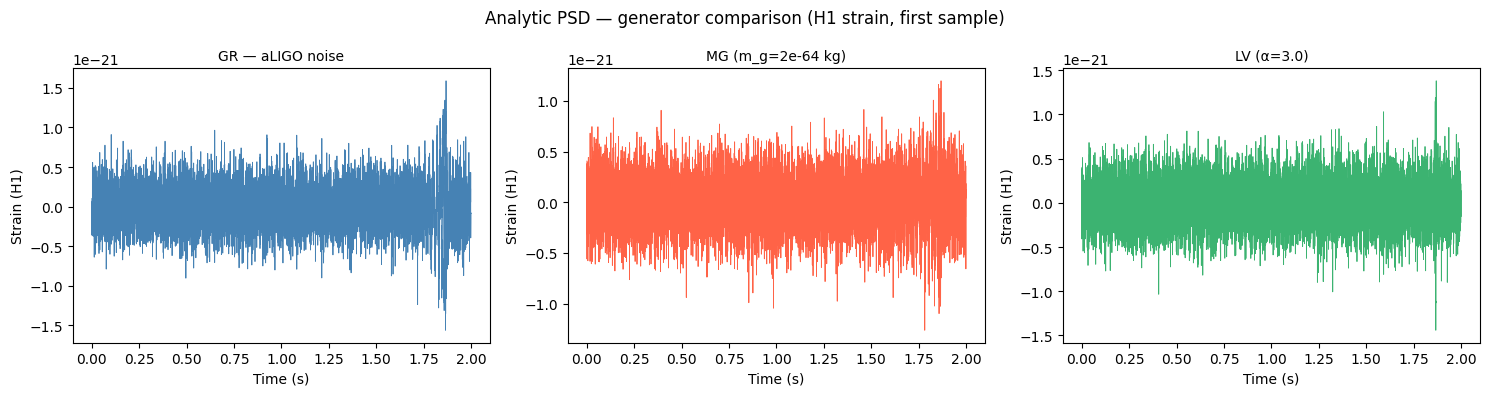
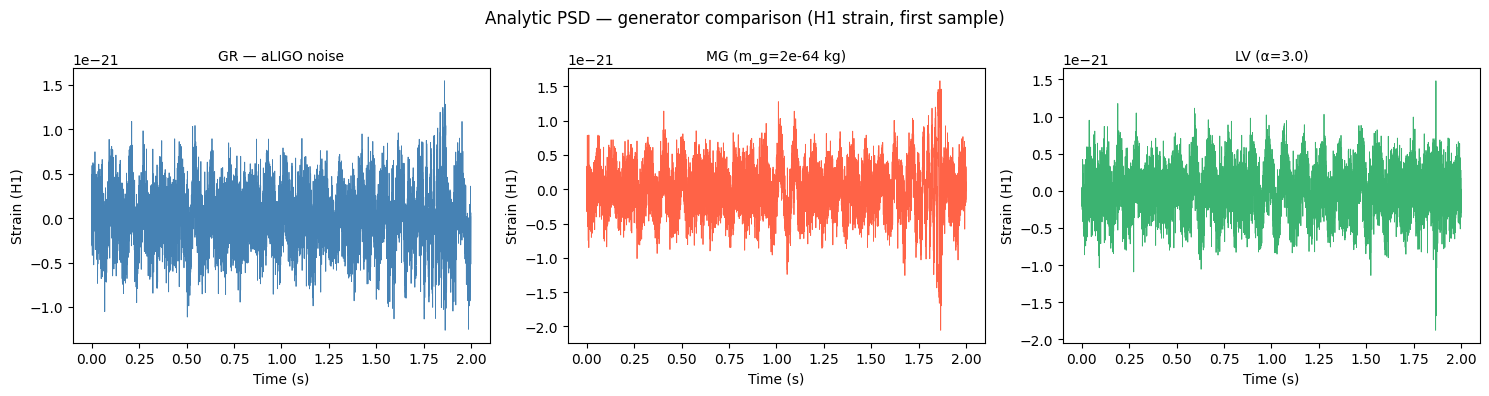
e

diff --git a/HPC/Pipeline/Data Generation/plot_gr_o4_data.py b/HPC/Pipeline/Data Generation/plot_gr_o4_data.py
@@ -1,0 +1,140 @@
+"""
+plot_gr_o4_data.py — Generate GR waveforms with O4 real noise and plot a selection of samples.
+
+Usage:
+    python plot_gr_o4_data.py [--n-samples 10] [--n-plot 4] [--output gr_o4_samples.png]
+"""
+
+import argparse
+import numpy as np
+import matplotlib
+matplotlib.use('Agg')
+import matplotlib.pyplot as plt
+
+from gw_datagen import (
+    pycbc_data_generator,
+    _DEFAULT_CACHE,
+)
+
+# ── Config ────────────────────────────────────────────────────────────────────
+N_SAMPLES     = 10
+N_PLOT        = 4
+TIME_RES      = 1 / 4096
+SIGNAL_LENGTH = 2.0
+F_LOWER       = 10.0
+F_FINAL       = 2048.0
+APPROXIMANT   = 'IMRPhenomD'
+DETECTORS     = ['H1', 'L1']
+
+H1_COLOR = '#1f77b4'
+L1_COLOR = '#d62728'
+
+
+def parse_args():
+    p = argparse.ArgumentParser(formatter_class=argparse.ArgumentDefaultsHelpFormatter)
+    p.add_argument('--n-samples', type=int, default=N_SAMPLES,
+                   help='Total waveforms to generate.')
+    p.add_argument('--n-plot', type=int, default=N_PLOT,
+                   help='Number of examples to plot.')
+    p.add_argument('--cache-dir', default=_DEFAULT_CACHE,
+                   help='O4 PSD cache directory.')
+    p.add_argument('--output', default='gr_o4_samples.png',
+                   help='Output image path.')
+    return p.parse_args()
+
+
+def main():
+    args = parse_args()
+
+    config = {
+        'mass1':        lambda size: np.random.uniform(10, 60, size=size),
+        'mass2':        lambda size: np.random.uniform(10, 60, size=size),
+        'spin1z':       lambda size: np.random.uniform(-0.99, 0.99, size=size),
+        'spin2z':       lambda size: np.random.uniform(-0.99, 0.99, size=size),
+        'distance':     lambda size: np.random.uniform(200, 800, size=size),
+        'inclination':  lambda size: np.random.uniform(0, np.pi, size=size),
+        'coa_phase':    lambda size: np.random.uniform(0, 2 * np.pi, size=size),
+        'ra':           lambda size: np.random.uniform(0, 2 * np.pi, size=size),
+        'dec':          lambda size: np.arcsin(np.random.uniform(-1, 1, size=size)),
+        'polarization': lambda size: np.random.uniform(0, np.pi, size=size),
+    }
+
+    print(f'Generating {args.n_samples} GR waveforms with O4 noise...')
+    result = pycbc_data_generator(
+        config=config,
+        num_samples=args.n_samples,
+        time_resolution=TIME_RES,
+        approximant=APPROXIMANT,
+        f_lower=F_LOWER,
+        f_final=F_FINAL,
+        signal_length=SIGNAL_LENGTH,
+        detectors=DETECTORS,
+        add_noise=True,
+        noise_backend='o4_psd',
+        psd_cache_dir=args.cache_dir,
+        batch_size=args.n_samples,
+        train_split=0.8,
+        val_split=0.1,
+        show_progress=True,
+    )
+
+    meta         = result['metadata']
+    param_names  = meta['parameter_names']
+    m1_idx       = param_names.index('mass1')
+    m2_idx       = param_names.index('mass2')
+    d_idx        = param_names.index('distance')
+
+    # Pull one full batch from the train loader
+    waveforms, params = next(iter(result['train_loader']))
+    # waveforms: [batch, n_detectors, time_samples]
+    # params:    [batch, n_params]  (raw, unnormalized)
+
+    n_plot = min(args.n_plot, waveforms.shape[0])
+    times  = np.arange(waveforms.shape[-1]) * TIME_RES
+
+    fig, axes = plt.subplots(n_plot, 2, figsize=(12, 3 * n_plot))
+    if n_plot == 1:
+        axes = axes[np.newaxis, :]
+
+    col_titles = ['H1 (raw strain)', 'L1 (raw strain)']
+    col_colors = [H1_COLOR, L1_COLOR]
+
+    for col, (title, color) in enumerate(zip(col_titles, col_colors)):
+        axes[0, col].set_title(title, fontsize=11, color=color, fontweight='bold')
+
+    for i in range(n_plot):
+        strain = waveforms[i].numpy()   # [n_detectors, time_samples]
+        p      = params[i].numpy()
+
+        m1 = p[m1_idx]
+        m2 = p[m2_idx]
+        d  = p[d_idx]
+
+        row_label = f'm₁={m1:.1f} M☉\nm₂={m2:.1f} M☉\nd={d:.0f} Mpc'
+
+        axes[i, 0].plot(times, strain[0], lw=0.5, color=H1_COLOR, alpha=0.85)
+        axes[i, 1].plot(times, strain[1], lw=0.5, color=L1_COLOR, alpha=0.85)
+
+        for col in range(2):
+            ax = axes[i, col]
+            ax.set_xlim(times[0], times[-1])
+            ax.set_ylabel('Strain', fontsize=8)
+            if i == n_plot - 1:
+                ax.set_xlabel('Time (s)')
+            ax.ticklabel_format(axis='y', style='sci', scilimits=(0, 0))
+
+        axes[i, 0].text(
+            0.02, 0.97, row_label,
+            transform=axes[i, 0].transAxes,
+            fontsize=7, va='top', ha='left',
+            bbox=dict(boxstyle='round,pad=0.2', fc='white', alpha=0.7),
+        )
+
+    fig.suptitle('GR Waveforms — O4 Real Noise  (IMRPhenomD)', fontsize=13, y=1.01)
+    plt.tight_layout()
+    plt.savefig(args.output, dpi=150, bbox_inches='tight')
+    print(f'Saved → {args.output}')
+
+
+if __name__ == '__main__':
+    main()

diff --git a/local tests/code tests/test_o4_real.py b/local tests/code tests/test_o4_real.py
@@ -34,15 +34,15 @@ from gw_datagen import (
 from pycbc.noise import noise_from_psd
 from conftest import PLOTS_DIR
 
-LAMBDA_G    = 1e22
+M_G         = 2.21e-64  # kg — graviton mass; equivalent to lambda_g ≈ 1e22 m
 ALPHA_LV    = 3.0
-A_LV        = 1e15
+A_LV        = 5.07e21  # A in eV^{-1} for alpha=3 (DSR); equivalent to lambda_A ≈ 1e15 m
 
 DETECTOR    = "H1"
 SAMPLE_RATE = 4096
 SIGNAL_SECS = 2.0
 DELTA_T     = 1.0 / SAMPLE_RATE
-F_LOWER     = 30.0
+F_LOWER     = 10.0
 TARGET_LEN  = int(SIGNAL_SECS * SAMPLE_RATE)   # 8192
 DELTA_F     = 1.0 / SIGNAL_SECS                # 0.5 Hz
 FLEN        = TARGET_LEN // 2 + 1              # 4097
@@ -66,7 +66,7 @@ def gr_o4(small_config, aligo_kwargs, psd_cache_dir):
 def mg_o4(small_config, aligo_kwargs, psd_cache_dir):
     return pycbc_massive_gravity_data_generator(
         config=small_config,
-        lambda_g=LAMBDA_G,
+        m_g=M_G,
         detectors=["H1"],
         noise_backend="o4_psd",
         psd_cache_dir=psd_cache_dir,
@@ -78,8 +78,8 @@ def lv_o4(small_config, aligo_kwargs, psd_cache_dir):
     return pycbc_lorentz_violation_data_generator(
         config=small_config,
         alpha_lv=ALPHA_LV,
-        A_lv=A_LV,
-        lambda_g=LAMBDA_G,
+        A=A_LV,
+        m_g=M_G,
         detectors=["H1"],
         noise_backend="o4_psd",
         psd_cache_dir=psd_cache_dir,
@@ -288,7 +288,7 @@ class TestPlots:
 
         datasets = [
             (gr_o4, "GR — O4 noise",              "steelblue"),
-            (mg_o4, f"MG (λ_g={LAMBDA_G:.0e} m)", "tomato"),
+            (mg_o4, f"MG (m_g={M_G:.0e} kg)", "tomato"),
             (lv_o4, f"LV (α={ALPHA_LV})",         "mediumseagreen"),
         ]
 

diff --git a/HPC/Pipeline/Data Generation/generate_dataset.py b/HPC/Pipeline/Data Generation/generate_dataset.py
@@ -36,7 +36,7 @@ NUM_WORKERS  = 4
 # ── Waveform settings ─────────────────────────────────────────────────────────
 TIME_RESOLUTION = 1 / 4096   # seconds per sample
 SIGNAL_LENGTH   = 2.0        # seconds
-F_LOWER         = 30.0       # Hz
+F_LOWER         = 10.0       # Hz
 F_FINAL         = 2048.0     # Hz
 APPROXIMANT     = 'IMRPhenomD'
 
@@ -106,6 +106,7 @@ if __name__ == '__main__':
         train_split=TRAIN_SPLIT,
         val_split=VAL_SPLIT,
         add_noise=ADD_NOISE,
+        noise_backend='o4_psd',
         num_workers=NUM_WORKERS,
     )
 

diff --git a/HPC/Pipeline/Data Generation/gw_datagen.py b/HPC/Pipeline/Data Generation/gw_datagen.py
@@ -38,7 +38,7 @@ _O4A_GPS_START  = 1369166418
 _O4A_GPS_END    = 1389744018
 
 _FETCH_DUR      = 256   # seconds of data per segment
-_FFT_LEN        = 4     # Welch FFT length in seconds
+_FFT_LEN        = 32    # Welch FFT length in seconds
 _DEFAULT_N_SEGS = 100
 _DEFAULT_CACHE  = os.path.join(os.path.dirname(os.path.abspath(__file__)), 'o4_psd_cache')
 

diff --git a/HPC/Pipeline/Data Generation/plot_noise_comparison.py b/HPC/Pipeline/Data Generation/plot_noise_comparison.py
@@ -44,7 +44,7 @@ PARAMS = {
 DETECTOR        = 'H1'
 TIME_RESOLUTION = 1 / 4096
 SIGNAL_LENGTH   = 2.0
-F_LOWER         = 30.0
+F_LOWER         = 10.0
 F_FINAL         = 2048.0
 APPROXIMANT     = 'IMRPhenomD'
 TARGET_LENGTH   = int(SIGNAL_LENGTH / TIME_RESOLUTION)

diff --git a/local tests/code tests/conftest.py b/local tests/code tests/conftest.py
@@ -67,7 +67,7 @@ def base_kwargs():
         num_samples=16,
         time_resolution=1 / 4096,
         approximant="IMRPhenomD",
-        f_lower=40.0,
+        f_lower=10.0,
         signal_length=2.0,
         batch_size=8,
         train_split=0.7,
